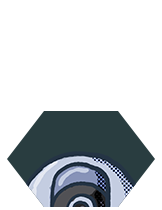
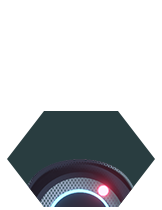
fix questionnaires and update mini-game images and assets

Changed region(s): [[0.1543, 0.7143, 0.8333, 1.0]]

diff --git a/components/impress/game/brazil/brazil-survey.vue b/components/impress/game/brazil/brazil-survey.vue
@@ -6,7 +6,7 @@
           <template v-for="(q, i) in questions">
             <v-card-text :key="i" class="py-4">
               <div
-                :class="{ 'error--text': hasErrors }"
+                :class="{ 'error--text': q.hasError }"
                 class="mb-2 text-body-1 font-weight-medium"
               >
                 {{ $tr(`brazil.questions.${i + 1}.label`) }}
@@ -21,7 +21,10 @@
                   >
                     <v-btn
                       :key="ai"
-                      :class="{ 'primary white--text': q.value === ai }"
+                      :class="{
+                        'primary white--text': q.value === ai,
+                        'error--text': q.hasError,
+                      }"
                       :value="ai"
                     >
                       {{ answer }}
@@ -48,7 +51,6 @@
       </div>
       <div class="d-flex justify-center pb-6 gap-6 pt-4">
         <v-btn
-          :disabled="isDisabled"
           class="px-6 custom-disabled-state"
           color="primary"
           dark
@@ -62,7 +64,7 @@
         </v-btn>
       </div>
     </v-card>
-    <privacy-notice v-if="isPrivacyOpen" v-model="isPrivacyOpen"/>
+    <privacy-notice v-if="isPrivacyOpen" v-model="isPrivacyOpen" />
   </div>
 </template>
 
@@ -72,7 +74,7 @@ import PrivacyNotice from '~/components/impress/game/shared/privacy-notice.vue';
 
 export default {
   name: 'BrazilSurvey',
-  components: {PrivacyNotice},
+  components: { PrivacyNotice },
   mixins: [SoundPlayer],
   data() {
     return {
@@ -82,43 +84,46 @@ export default {
           question: '',
           value: null,
           type: 'checkbox',
+          hasError: false,
         },
         {
           question: '',
           value: null,
           type: 'checkbox',
+          hasError: false,
         },
         {
           question: '',
           value: null,
           type: 'checkbox',
           isLink: true,
+          hasError: false,
         },
         {
           question: '',
           value: null,
           type: 'checkbox',
           correctValue: 1,
+          hasError: false,
         },
       ],
-      hasErrors: false,
     };
   },
   computed: {
-    isDisabled() {
-      const notAllAnswered = this.questions.some(({value}) => value === null);
+    isNotValid() {
+      const notAllAnswered = this.questions.some(({ value }) => value === null);
       const lastQuestion = [...this.questions].pop();
       return notAllAnswered || lastQuestion.value !== lastQuestion.correctValue;
     },
   },
   methods: {
     finishSurveyHandler() {
-      this.hasErrors = false;
       this.playGameSound('big-button-press-1');
-      if (this.isWrong) {
-        this.hasErrors = true;
-        return;
-      }
+      this.questions[this.questions.length - 1].hasError =
+        this.questions[this.questions.length - 1].value !==
+        this.questions[this.questions.length - 1].correctValue;
+
+      if (this.isNotValid) return;
       this.$emit('next');
     },
   },

diff --git a/components/impress/game/usa/usa-questions.vue b/components/impress/game/usa/usa-questions.vue
@@ -5,13 +5,16 @@
       :key="qIndex"
       :class="{ 'mb-6': qIndex !== questions.length - 1 }"
     >
-      <div class="pb-2 text-body-1 font-weight-medium">{{ question.label }}</div>
+      <div
+        class="pb-2 text-body-1 font-weight-medium"
+        :class="{ 'error--text': question.hasError }"
+      >
+        {{ question.label }}
+      </div>
       <v-radio-group
         v-for="(option, oIdx) in question.options"
         :key="oIdx"
         v-model="question.value"
-        :error="hasErrors"
-        class=""
         hide-details
       >
         <v-radio
@@ -19,6 +22,7 @@
           :value="option"
           class="ma-0 text-body-1"
           color="primary"
+          :class="question.hasError ? 'error--text' : 'white--text'"
           hide-details
         />
       </v-radio-group>
@@ -47,32 +51,27 @@ export default {
       questions: this.$t(`usa.privacy-questions`).map((question) => ({
         ...question,
         value: null,
+        hasError: false,
       })),
-      hasErrors: false,
     };
   },
   computed: {
     isValid() {
-      return this.questions.every(({value}) => {
-        return value === 'No'
+      return this.questions.every(({ value }) => {
+        return value === 'No';
       });
     },
   },
-  watch: {
-    questions: {
-      deep: true,
-      handler() {
-        this.hasErrors = false;
-      },
-    },
-  },
   methods: {
+    updateQuestions() {
+      this.questions.forEach((question) => {
+        question.hasError = question.value !== 'No';
+      });
+    },
     validateHandler(event) {
-      if (!this.isValid) {
-        this.hasErrors = true;
-      } else {
-        this.$emit('next', event);
-      }
+      this.updateQuestions();
+      if (!this.isValid) return;
+      this.$emit('next', event);
     },
   },
 };
@@ -81,6 +80,12 @@ export default {
 <style lang="scss" scoped>
 ::v-deep .v-input--selection-controls {
   margin: 0;
+}
+
+.error--text {
+  ::v-deep label {
+    color: var(--v-error-base) !important;
+  }
 }
 
 ::v-deep .v-input {

diff --git a/components/impress/game/brazil/scoreboard-survey.vue b/components/impress/game/brazil/scoreboard-survey.vue
@@ -5,7 +5,12 @@
       :key="qIndex"
       :class="{ 'mb-6': qIndex !== questions.length - 1 }"
     >
-      <div class="pb-2 text-body-1">{{ question.label }}</div>
+      <div
+        :class="{ 'error--text': question.hasError }"
+        class="pb-2 text-body-1"
+      >
+        {{ question.label }}
+      </div>
       <v-radio-group
         v-for="(option, oIdx) in question.options"
         :key="oIdx"
@@ -61,13 +66,11 @@ export default {
   },
   methods: {
     validateHandler() {
-      if (!this.isValid) {
-        this.questions.forEach((question) => {
-          question.hasError = question.value !== question.correctAnswer;
-        });
-      } else {
-        this.$emit('finish');
-      }
+      this.questions.forEach((question) => {
+        question.hasError = question.value !== question.correctAnswer;
+      });
+      if (!this.isValid) return;
+      this.$emit('finish');
     },
   },
 };
